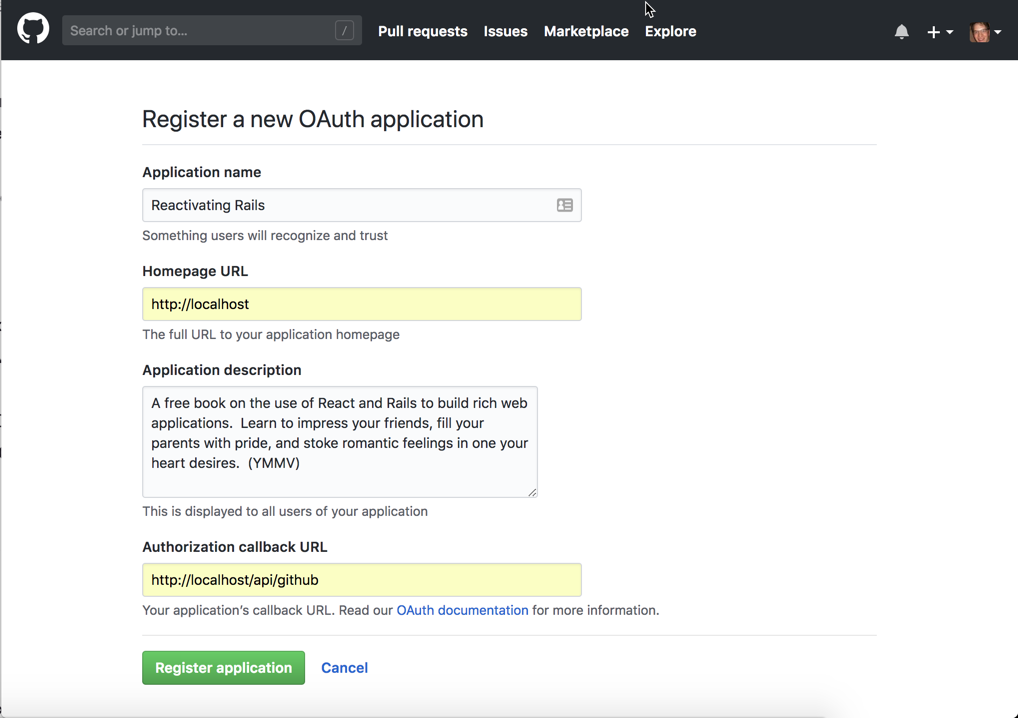
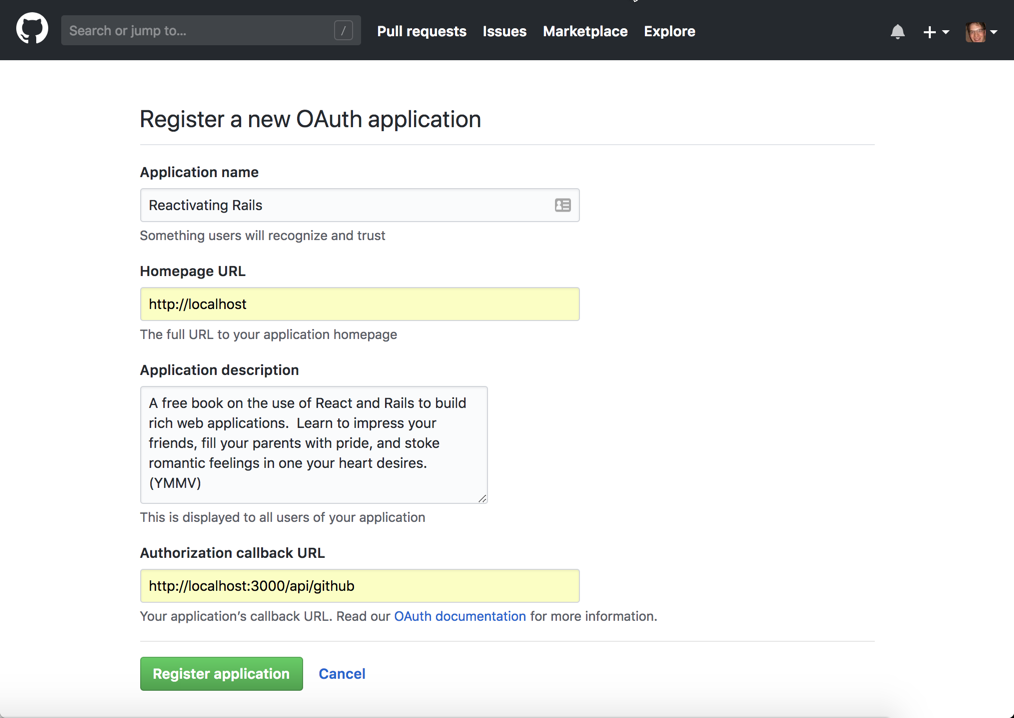
Chapter 12 Proofing Complete

diff --git a/12.md b/12.md
@@ -2,7 +2,7 @@
 
 In chapter 11 we created our authentication system using GitHub's OAuth API and JSON Web Tokens.  This chapter introduces our first authenticated action; bookmarking, which returns users to their last-read or furthest-read locations.  
 
-We also introduce error handling to ease recovery from catastrophic errors.  Finally, we add some persistent state client-side to retain user tokens across multiple visits.
+We also introduce error handling to ease recovery from catastrophic problems.  Finally, we add some persistent state client-side to retain user tokens across multiple visits.
 
 ## Getting Started 
 
@@ -21,7 +21,7 @@ git checkout ch12-starter
 
 The examples below create a `bookmarks` reducer and some supporting UI components. Since previous chapters covered similar topics in detail, I am not providing in-depth explanations of these changes, allowing us to move more quickly to the new concepts introduced this chapter.
 
-If you are following along, you should copy the following files into your local project.
+If you are following along, you should copy the following files into your local project to prepare for this iteration.
 
 ### The Bookmarks Reducer
 
@@ -67,7 +67,7 @@ describe("Bookmarks actionCreators", ()=>{
 import * as constants from '../constants/bookmarks';
 
 const default_state = {
-  prompt_shown: false,
+  prompt_shown: true,
   last_read: {chapter: 1},
   furthest_read: {chapter: 1}
 };
@@ -140,6 +140,8 @@ The following file changes build the UI control handling bookmark navigation.  T
 import React, { Component } from 'react';
 import { Button, Header, Icon, Modal } from 'semantic-ui-react';
 
+const modalPosition = {top: "40%"}
+
 class BookmarkModal extends Component {
   handleClose = () => this.props.dispatchSetBookmarkOffered(true);
   
@@ -168,7 +170,7 @@ class BookmarkModal extends Component {
     let furthest_read = this.props.furthest_read.chapter;
     
     return(
-      <Modal open={this.props.displayState} onClose={this.handleClose} basic size='small'>
+      <Modal open={this.props.displayState} onClose={this.handleClose} basic size='small' style={modalPosition}>
         <Header icon='archive' content='Pick up where you left off' />
         <Modal.Content>
           <p>We've saved some bookmarks on your behalf.  Would you like to resume reading at one of these locations?</p>
@@ -234,7 +236,7 @@ The file changes below create a client-side error page where we can redirect use
 export const HOME_ROUTE = "HOME_ROUTE";
 export const CHAPTER_ROUTE = "CHAPTER_ROUTE";
 export const AUTH_ROUTE = "AUTH_ROUTE";
-export const ERROR_ROUTE = "ERROR_ROUTE";
++ export const ERROR_ROUTE = "ERROR_ROUTE";
 ```
 
 ``` javascript(/client/src/actions/routes.js)
@@ -246,25 +248,25 @@ export const routeChapter = (chapter_id) => (
   {type: routes.CHAPTER_ROUTE, payload: { chapter_id }}
 );
 
-export const routeError = () => ({type: routes.ERROR_ROUTE});
++ export const routeError = () => ({type: routes.ERROR_ROUTE});
 ```
 
 ``` javascript(/client/src/reducers/store.js)
-- import { createStore, combineReducers, applyMiddleware } from "redux";
-- import { composeWithDevTools } from 'redux-devtools-extension';
-- import createSagaMiddleware from 'redux-saga'
-- import { connectRoutes } from 'redux-first-router';
-- import restoreScroll from 'redux-first-router-restore-scroll'
-- import createHistory from 'history/createBrowserHistory';
-- 
-- import * as ROUTES from '../constants/settings';
-- import chapters from './chapters';
-- import nodes from './nodes';
-- import settings from './settings';
-- import alerts from './alerts';
-- import user from './user';
-- import bookmarks from './bookmarks';
-- import rootSaga from '../sagas/root';
+import { createStore, combineReducers, applyMiddleware } from "redux";
+import { composeWithDevTools } from 'redux-devtools-extension';
+import createSagaMiddleware from 'redux-saga'
+import { connectRoutes } from 'redux-first-router';
+import restoreScroll from 'redux-first-router-restore-scroll'
+import createHistory from 'history/createBrowserHistory';
+
+import * as ROUTES from '../constants/settings';
+import chapters from './chapters';
+import nodes from './nodes';
+import settings from './settings';
+import alerts from './alerts';
+import user from './user';
++ import bookmarks from './bookmarks';
+import rootSaga from '../sagas/root';
 
 const history = createHistory();
 const routeMap = {
@@ -275,13 +277,13 @@ const routeMap = {
 +   [ROUTES.ERROR_ROUTE]: "/error"
 };
 
-const { reducer: routeReducer, middleware: routerMiddleware, enhancer: routerEnhancer, initialDispatch } = - - connectRoutes(
+const { reducer: routeReducer, middleware: routerMiddleware, enhancer: routerEnhancer, initialDispatch } = connectRoutes(
 -   history,
 -   routeMap,
 -   { restoreScroll: restoreScroll(), initialDispatch: false }
 - );
 
-const reducers = combineReducers({location: routeReducer, user, settings, bookmarks, alerts, nodes, chapters});
++ const reducers = combineReducers({location: routeReducer, user, settings, bookmarks, alerts, nodes, chapters});
 
 const sagaMiddleware = createSagaMiddleware();
 
@@ -309,12 +311,9 @@ class ErrorPane extends Component {
       <div id="error-pane">
         <Container text>
           <h1>Well Shucks...</h1>
-          <p>This page is where we, unfortunately, have to make up some cutesy reason to apologize for our site not working at the moment. Perhaps the legion of radioactive cyborg battle-hamsters we were breeding have escaped confinement?</p>
+          <p>This page is where we, unfortunately, make up some cutesy reason to apologize for our site not working at the moment. In any case, we don't seem able to do the things at the moment.</p>
           
-          <p>In any case, we do not seem able to do the things at the moment.</p>
-          
-          <p>How about you <Link to={ routeHome() }>head to the homepage</Link> and give it another go? Try not to break anything this time.</p>
-        </Container>
+          <p>How about you <Link to={ routeHome() }>head to the homepage</Link> and try giving it another go?</p>
       </div>
     );
   }
@@ -462,11 +461,11 @@ If you want to test that you have everything wired correctly before moving on,  
 
 ![Prompt Offering Option to Jump Immediately to a Bookmark](/images/12/BookmarkModalPrompt.png)
 
-## Sending Authentication Headers
+## Getting Started: Authentication Headers
 
-With a token in our store for authenticated users, we need a mechanism for users to make authenticated requests.  To do this, we can send the JWT token in an authorization header.  Methods in our `ApplicationController` can then validate these tokens, and limit access to protected API endpoints.
+With a token now in our store for authenticated users, we can design a mechanism for users to make authenticated requests.  To do this, we can send the JWT token in an authorization header when making requests to our API.  Methods in our `ApplicationController` can then validate these tokens, and limit access to any protected API endpoints we create.
 
-Begin by preparing for the client-side request. So far we have used Axios in one-off fashion when sending requests.  Now that we need more complexity in our requests, we should formalize our Axios client setup.
+Let's begin by preparing for the client-side of these request. So far we have used Axios in one-off fashion whenever we've needed to communicate with our API.  Now that we need more to support more complexity, we should formalize Axios' client setup.
 
 Set up a new folder `src/sagas/utils`.  This folder can store generator functions used by our sagas that are not themselves directly connected to a watcher saga.
 
@@ -487,7 +486,7 @@ export default function* axiosCreateClient(req_auth = true){
 }
 ```
 
-`axiosCreateClient` is a generator function which creates an Axios client.  By default, this function tries to create a client with authorization headers, returning `null` if a token is unavailable.  We can also override the function's defaults to produce a public client without an authorization header.
+`axiosCreateClient` is a generator function which creates an Axios client.  By default, this function tries to create a client with authorization headers, returning `null` if a token is unavailable.  We can also override the function's defaults when we need to produce a public client.
 
 Next, create a barebones `setBookmarks` saga using our new Axios configuration.
 
@@ -515,17 +514,17 @@ export function* watchBookmarkChanges(){
 }
 ```
 
-Notice our saga yields to call `axiosCreateClient`.  Generator functions can invoke additional generators, allowing us to precisely order operations.  By yielding into another generator, we suspend `setBookmakrs` until `axiosCreateClient` completes, allow the nested generator time to query our store and create the appropriate client.
+Notice our saga yields when calling `axiosCreateClient`.  Generator functions can use yield statements to invoke additional generators, allowing us to precisely order operations.  By yielding into another generator, we suspend `setBookmarks` until `axiosCreateClient` completes, allow the nested generator time to query our store for a token and create our client.
 
 `axiosCreateClient` either returns `null` or an authorized client for authenticated users.  For a `null` client, our saga ends immediately.  When returned an authorized client, we make a POST request to an `api/bookmarks` route.  For now, we are sending all responses and errors from this request to our console.
 
-Now we can create the API support for this route.  Run the command below to create a new resource `bookmarks`, and be sure to run your database migrations before continuing.
+Now we can create the API support for this route.  Run the following command to create a new resource `bookmarks`, and be sure to run your database migrations before continuing.
 
 ``` bash
-docker-compose exec api bin/rails generate resource Bookmark user_id:integer last_read:integer furthest_read:integer
+docker-compose exec api rails generate resource Bookmark user_id:integer last_read:integer furthest_read:integer
 ```
 
-We should also create associations between our `User` and `Bookmark` models.
+We need to first create associations between our `User` and `Bookmark` models.
 
 ``` ruby(/api/app/models/user.rb)
 - # == Schema Information
@@ -587,7 +586,7 @@ class Bookmark < ApplicationRecord
 end
 ```
 
-Modify the generated routes so to align with our existing `/api` nesting.  We are limiting this resource to support only `create` and `index` actions.
+Next, modify the generated routes to follow our existing `/api` nesting.  We are limiting this resource to support only `create` and `index` actions.
 
 ``` ruby(/api/config/routes.rb)
 Rails.application.routes.draw do
@@ -615,13 +614,13 @@ Finally, modify the generated controller.  Be sure to nest this controller insid
 end
 ```
 
-Log in and then revisit a chapter route (not the homepage) to check your work.  You should see the console logged response from your controller.
+If you haven't already, **add the watchBookmarkChanges watcher to your root saga**.  Then, log in and then revisit a chapter route (not the homepage) to check your work.  You should see the console logged response from your controller.  Rember, this saga only fires for users with a token in their store; so be sure you are signed in for testing.
 
 ![Console Response from Bookmark Controller Stub](/images/12/ConsoleBookmarkResponse.png)
 
 ## Checking Authorization Headers
 
-With a very basic controller and saga, we can turn our attention to protecting our authenticated actions.  Since we need to control access across many controllers/actions, it makes sense to configure this logic in our `ApplicationController`.
+With a very basic controller and saga in place, we can turn our attention to protecting our new authenticated actions.  Since we are likely to need access control across many controllers/actions, it makes sense to configure this logic in our `ApplicationController`.
 
 ``` ruby(/api/app/controllers/application_controller.rb)
 class ApplicationController < ActionController::API
@@ -708,7 +707,7 @@ end
 
 Using an ActiveRecord `before_save` callback, we can run a new method `ensure_furthest_location` before updating our database.  The method locates our existing record and checks whether the stored `furthest_read` value is greater than the new value.  If the database value is higher, we override the save to persist the existing bookmark for furthest read location.
 
-Finish the bookmark creation client-side by returning to our saga.
+Now we can finish bookmark creation client-side by returning to our saga.
 
 ``` javascript(/client/src/sagas/set_bookmarks.js)
 import { takeEvery, call, put } from 'redux-saga/effects';
@@ -738,9 +737,9 @@ export function* watchBookmarkChanges(){
 }
 ```
 
-Our bookmarks should update client-side each time a chapter route loads.  Authenticated users also execute the try block, sending a post request to `/api/bookmarks` to save the bookmarks server-side as well.
+Our bookmarks should update client-side each time a chapter route loads.  That way we are prepared to create accurate bookmarks if a user authenticates late in their session.  When the saga fires,  authenticated users also execute the saga's try block, which sends a post request to `/api/bookmarks` to save the bookmarks server-side as well.
 
-Log into your application, and make a chapter request.  You should see the response logged to your console.
+Log into your application, and view a chapter of the book.  You should see the response logged to your console.
 
 ![Console Confirmation of BookmarksController#create](/images/12/BookmarkCreateLog.png)
 
@@ -753,7 +752,7 @@ To do this, we can pass a redirect URL through our initial GitHub request, which
 Create some new constants for our client, storing the top-level domain information needed for our redirects.
 
 ``` javascript(/client/src/constants/settings.js)
-+ export const BASE_AUTH_PATH = "http://localhost/api/github/"
++ export const BASE_AUTH_PATH = "http://localhost:3000/api/github/"
 
 export const HOME_ROUTE = "HOME_ROUTE";
 export const CHAPTER_ROUTE = "CHAPTER_ROUTE";
@@ -761,7 +760,7 @@ export const AUTH_ROUTE = "AUTH_ROUTE";
 export const ERROR_ROUTE = "ERROR_ROUTE";
 ```
 
-Let's update our Github/Profile badge component.  We need our `location` state available in this component, so let's begin by breaking that out as a standalone component.
+Let's update our Github/Profile badge component.  We need our `location` state available in this component, so let's begin by breaking that out as a standalone component.  Create a new file for the component below.
 
 ``` javascript(/client/src/components/github_icon.js)
 import React, { Component } from 'react';
@@ -825,7 +824,7 @@ class UserBadge extends Component {
 export default UserBadge;
 ```
 
-Users returning to our API after authorizing Github, now have an extra URL parameter `bounce_path` available.  Let's update our controller action to handle this value.
+By overriding GitHub's `redirect_uri`, users returning to our API after authorizing Github, now have an extra URL parameter `bounce_path` available.  Let's update our controller action to handle this value.
 
 ``` ruby(/api/app/controllers/api/authentication_controller.rb)
 class Api::AuthenticationController < ApplicationController
@@ -885,7 +884,7 @@ const routeMap = {
   [ROUTES.ERROR_ROUTE]: "/error"
 };
 
-- const { reducer: routeReducer, middleware: routerMiddleware, enhancer: routerEnhancer, initialDispatch } = - connectRoutes(
+- const { reducer: routeReducer, middleware: routerMiddleware, enhancer: routerEnhancer, initialDispatch } = connectRoutes(
 -   history,
 -   routeMap,
 -   { restoreScroll: restoreScroll(), initialDispatch: false }
@@ -908,6 +907,8 @@ export default store;
 ```
 
 Finally, update the `hydrateUser` saga to utilize this redirect value.  I am externalizing this part of our saga as a function as we did with `axiosCreateClient`.  This approach makes `hydrateUser` more readable and simplifies testing by allowing us to test this redirect functionality in isolation.
+
+Create the new file below inside your `sagas/utils` directory.
 
 ``` javascript(/client/src/sagas/utils/redirect_path.js)
 import { put } from 'redux-saga/effects';
@@ -959,15 +960,15 @@ export function* watchAuthRoutes(){
 
 ## Persisting State Through Sessions
 
-There's another issue I want to revisit before closing out our bookmarking functionality.  We have no persistence lasting beyond our browser window's closing.  Every time a user returns we must completely rebuild our store, and that minimizes the value of our login system.
+There's another issue I want to revisit before closing out our bookmarking functionality.  We have no persistence lasting beyond our browser window's closing.  Each time a user returns we must completely rebuild our store, and that minimizes the value of our login system.
 
 We are going to add a library `redux-persist` to restore sections of our store state from local storage on user's return visits.  Start by installing the npm package.
 
 ```
-docker-compose exec client yarn add redux-persist
+docker-compose exec client yarn add redux-persist@5.10.0
 ```
 
-Then update our store to persist areas of our state we want to preserve.
+Then we must update our store to persist areas of our state we want to preserve.
 
 ``` javascript(/client/src/reducers/store.js)
 import { createStore, combineReducers, applyMiddleware } from "redux";
@@ -1320,7 +1321,8 @@ end
 Then alter `spec_helper.rb` to include these helper methods automatically in our tests. 
 
 ``` ruby(/api/spec/spec_helper.rb)
-+ require 'helpers.rb'
++ require "./spec/helpers.rb"
+
 RSpec.configure do |config|
 +   config.include Helpers
   config.expect_with :rspec do |expectations|
@@ -1361,7 +1363,7 @@ RSpec.describe Api::BookmarksController, type: :controller do
     it "returns a user's bookmarks" do
       get :index
       expect(response).to have_http_status(:success)
-      expect(response.body).to eq "{\"user_id\":1,\"last_read\":1,\"furthest_read\":1}"
+      expect(response.body).to eq "{\"user_id\":#{@user.id},\"last_read\":1,\"furthest_read\":1}"
     end
   end
 end 

diff --git a/11.md b/11.md
@@ -67,7 +67,9 @@ When you make it this far, click the link to register a new OAuth application.
 
 ![Create a New OAuth Application](/images/11/RegisterOAuth.png)
 
-The most important parts of this are your homepage and a callback URL.  The callback URL is where GitHub directs users after successfully signing in and approving your application's access to their data.  This URL is where our application regains control and finishes the authentication handshake.  Since this is an API route, I am setting my callback URL as `/api/github` so it is consistent with our existing routes.
+The most important parts of this are your homepage and a callback URL.  The callback URL is where GitHub directs users after successfully signing in and approving your application's access to their data.  This URL is where our application regains control and finishes the authentication handshake.  Since this is an API route, I am setting my callback URL as `http://localhost:3000/api/github` so it is consistent with our existing routes.  
+
+**Note:** you must specify the port your API container is bound to in your callback URL.  Our proxy defined in NPM will only intervene for AJAX requests originating inside our client application.  Failing to specify port 3000 will improperly land our redirect back at our client.
 
 ![Configure New OAuth Application](/images/11/RegisterOAuth2.png)
 
